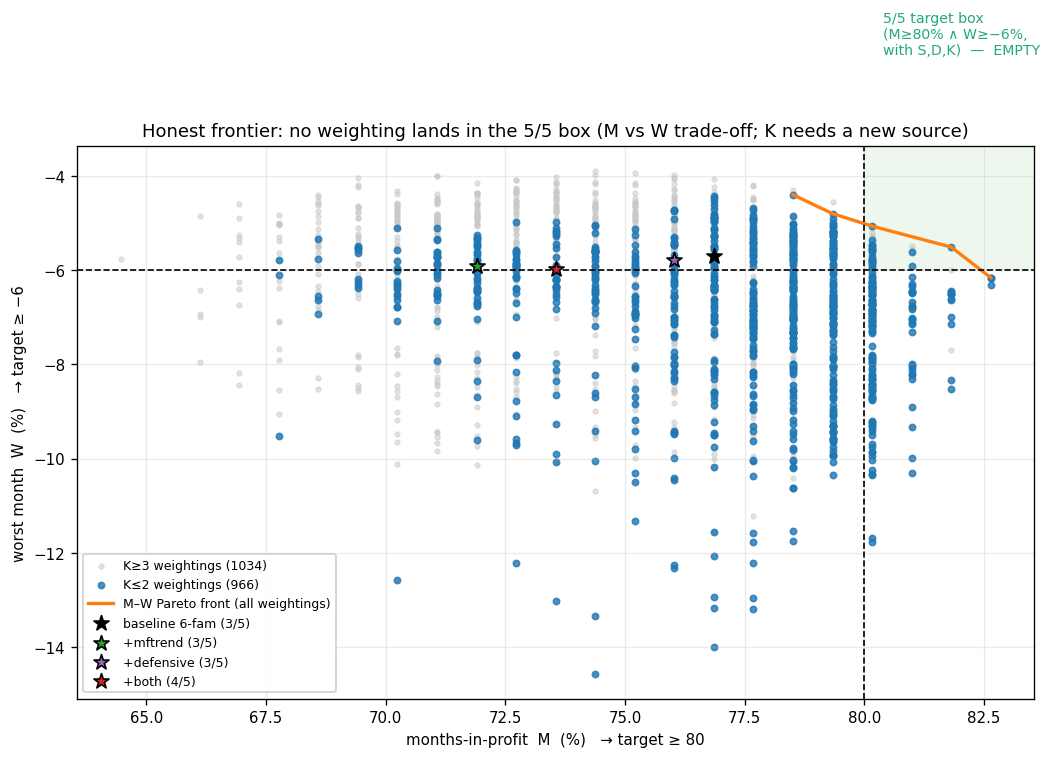
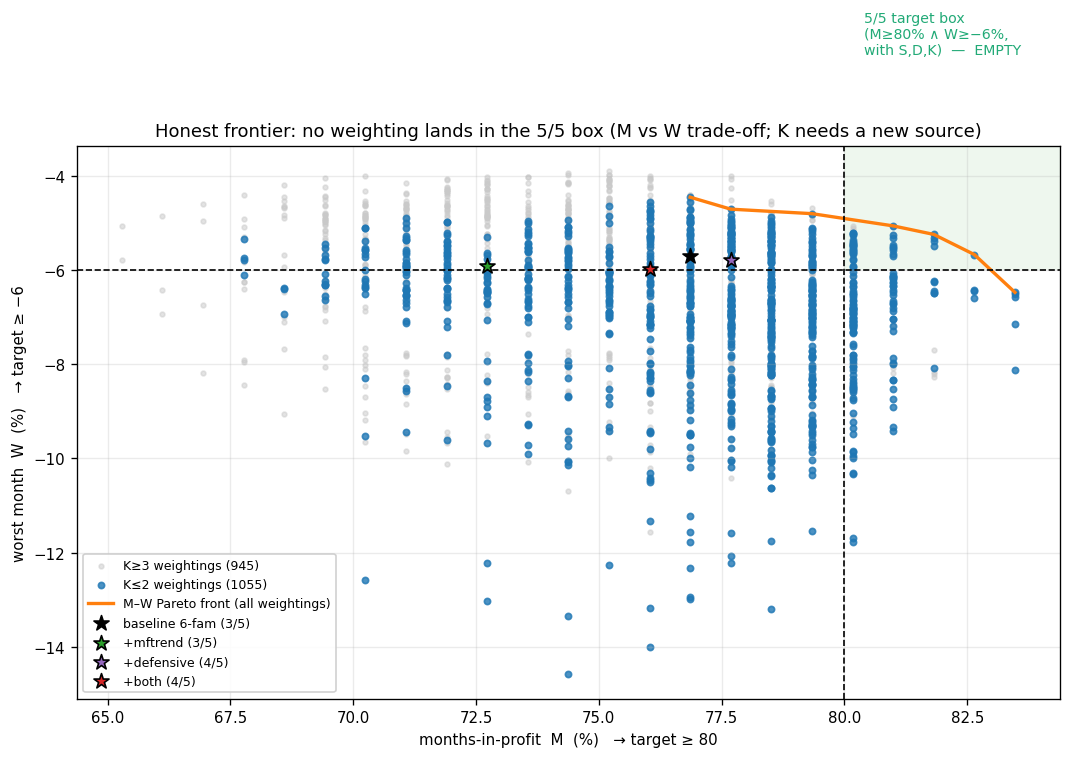
One vol-target sizing function instead of thirty-eight copies of it
Changing the ceiling last commit changed exactly one of the places that formula lives. There were 46,
across 36 files — I said eleven earlier, having read a truncated grep, and eleven was wrong.

Thirty-eight of them were character-identical: divide the vol target by trailing vol, clip, lag a bar,
zero the warm-up. That is not incidental repetition. The `.shift(1)` is the whole look-ahead discipline
of position sizing, and thirty-eight hand-written copies are thirty-eight chances to omit it in a way no
Sharpe would ever reveal. src/risk/sizing.vol_target_scale is now the only implementation.

The ceiling and the lookback stay ARGUMENTS at every call site rather than becoming a shared constant.
A sleeve's cap is part of a construction validated with it in place; re-pointing every sleeve at one
number would silently re-open every family's published series. Only the book-assembly layer passes
VOL_SCALE_CAP, because that is the only one measured.

Behaviour-preserving, and checked rather than asserted: every series the master book reads was rebuilt
and compared by hash — volprem, breakout, crisis and gmacro all byte-identical. The only artifacts that
moved are the two that read the book itself (carry's corr_to_book, the frontier sweep), which moved
because the book moved last commit.

Four sites remain on their own literal and should: they size per ASSET inside a family, lag the position
[…]

diff --git a/src/risk/sizing.py b/src/risk/sizing.py
@@ -1,0 +1,33 @@
+"""Vol-target position sizing — the one implementation.
+
+This formula was written out thirty-seven times across the repo before it lived here, and the copies are
+not interchangeable trivia: the `.shift(1)` is what keeps the size computable at the bar rather than from
+the day's own volatility, and a single copy missing it is a look-ahead nobody would notice in a Sharpe.
+One implementation means that discipline is written once.
+
+The ceiling and the lookback stay ARGUMENTS, not shared constants. A sleeve's cap is part of a
+construction that was validated with it in place, and quietly re-pointing every sleeve at one number
+would re-open every family's published series. The book-assembly layer passes `VOL_SCALE_CAP` because
+that one was measured; everyone else passes what they were already using, visibly.
+"""
+from __future__ import annotations
+
+import numpy as np
+import pandas as pd
+
+
+def vol_target_scale(net: pd.Series, target: float, ppy: float,
+                     lookback: int = 60, cap: float = 3.0) -> pd.Series:
+    """Multiplier that puts `net` on `target` annualised vol, from trailing info only.
+
+    net      : a return series, already net of its own costs.
+    target   : annualised vol to size to (e.g. 0.15).
+    ppy      : that series' observations per year — 365 for crypto, ~252 for an exchange calendar.
+    lookback : bars of trailing vol to size off.
+    cap      : ceiling on the multiplier, so a quiet stretch cannot hand the leg unbounded leverage
+               just before a shock.
+
+    Lagged one bar and zero over the warm-up: before there is enough history to size a position there is
+    no position.
+    """
+    return (target / (net.rolling(lookback).std() * np.sqrt(ppy))).clip(upper=cap).shift(1).fillna(0.0)

diff --git a/scripts/volprem/run_vol_premium_book.py b/scripts/volprem/run_vol_premium_book.py
@@ -43,6 +43,7 @@ from src.metrics import summarise  # noqa: E402
 from src.risk.vol_regime import own_curve_gate, short_vol_gate  # noqa: E402
 from src.sleeves import vol_premium as vp  # noqa: E402
 from src.sleeves.vol_premium import realized_vol  # noqa: E402
+from src.risk.sizing import vol_target_scale  # noqa: E402
 
 TVOL, PPY_BOOK = VOL_TARGET_ANNUAL, 252
 
@@ -73,7 +74,7 @@ UNIVERSE = [
 
 
 def vt(net, ppy):
-    scale = (TVOL / (net.rolling(60).std() * np.sqrt(ppy))).clip(upper=3.0).shift(1).fillna(0.0)
+    scale = vol_target_scale(net, TVOL, ppy)
     return (net * scale).clip(lower=-0.999).dropna()
 
 
@@ -180,7 +181,7 @@ def gated_leg(src, sym, und, cls, ppy, gate: pd.Series | None, own_curve: bool =
     if own_curve:
         both = both * own_curve_gate(iv, px.index)
     net = vp.short_vol_book(px, iv, ppy=ppy, gate=both, **base)["net"]
-    scale = (TVOL / (ungated.rolling(60).std() * np.sqrt(ppy))).clip(upper=3.0).shift(1).fillna(0.0)
+    scale = vol_target_scale(ungated, TVOL, ppy)
     return (net * scale.reindex(net.index)).clip(lower=-0.999).dropna()
 
 
@@ -197,7 +198,7 @@ def gated_book(rets_ungated: dict, gate: pd.Series, own_curve: bool = True) -> p
             gat[sym] = gated_leg(src, sym, und, cls, ppy, gate, own_curve=own_curve)
     raw_u = pd.DataFrame(rets_ungated).sort_index().mean(axis=1, skipna=True).dropna()
     raw_g = pd.DataFrame(gat).sort_index().mean(axis=1, skipna=True).dropna()
-    scale = (TVOL / (raw_u.rolling(60).std() * np.sqrt(PPY_BOOK))).clip(upper=3.0).shift(1).fillna(0.0)
+    scale = vol_target_scale(raw_u, TVOL, PPY_BOOK)
     return (raw_g * scale.reindex(raw_g.index)).clip(lower=-0.999).dropna()
 
 

diff --git a/scripts/volprem/run_gate_coverage.py b/scripts/volprem/run_gate_coverage.py
@@ -48,6 +48,7 @@ from src.config import LAB_DIR, OOS_START, SEED  # noqa: E402
 from src.metrics import summarise  # noqa: E402
 from src.risk.vol_regime import short_vol_gate  # noqa: E402
 from src.sleeves import vol_premium as vp  # noqa: E402
+from src.risk.sizing import vol_target_scale  # noqa: E402
 
 from scripts.volprem.run_vol_premium_book import (COST_BY_CLASS, PPY_BOOK, TVOL, UNIVERSE,  # noqa: E402
                                    implied, naive_dt, underlying_bars)
@@ -74,7 +75,7 @@ def leg(src, sym, und, cls, ppy, gate=None, extra_lag=0, timed=False):
     ungated = vp.short_vol_book(px, iv, ppy=ppy, **base | {"timed": False})["net"]
     g = None if gate is None else gate.reindex(px.index).shift(extra_lag)
     net = vp.short_vol_book(px, iv, ppy=ppy, gate=g, **base)["net"]
-    scale = (TVOL / (ungated.rolling(60).std() * np.sqrt(ppy))).clip(upper=3.0).shift(1).fillna(0.0)
+    scale = vol_target_scale(ungated, TVOL, ppy)
     return (net * scale.reindex(net.index)).clip(lower=-0.999).dropna()
 
 
@@ -91,7 +92,7 @@ def book_of(rets: dict, reference: dict) -> pd.Series:
     same re-entry artifact bites at book level as at sleeve level."""
     raw = pd.DataFrame(rets).sort_index().mean(axis=1, skipna=True).dropna()
     ref = pd.DataFrame(reference).sort_index().mean(axis=1, skipna=True).dropna()
-    scale = (TVOL / (ref.rolling(60).std() * np.sqrt(PPY_BOOK))).clip(upper=3.0).shift(1).fillna(0.0)
+    scale = vol_target_scale(ref, TVOL, PPY_BOOK)
     return (raw * scale.reindex(raw.index)).clip(lower=-0.999).dropna()
 
 

diff --git a/scripts/meanrev/run_mr_universe.py b/scripts/meanrev/run_mr_universe.py
@@ -17,6 +17,7 @@ from src.data.binance_bulk import load_klines  # noqa: E402
 from src.data.equity import load_equity_daily  # noqa: E402
 from src.metrics import summarise  # noqa: E402
 from src.sleeves.cross_sectional import xs_returns  # noqa: E402
+from src.risk.sizing import vol_target_scale  # noqa: E402
 from scripts.meanrev.run_mr_proper import coint, pairs_daily, wf_select  # noqa: E402
 
 SEED = 7
@@ -54,13 +55,13 @@ def reversal(panel, ppy, cost_bps):
     def daily(lb):
         g, t = xs_returns(panel, -panel.pct_change(lb), top_frac=0.3)
         net = g - t * cost_bps / 1e4
-        sc = (0.15 / (net.rolling(60).std() * np.sqrt(ppy))).clip(upper=3.0).shift(1).fillna(0.0)
+        sc = vol_target_scale(net, 0.15, ppy)
         return (net * sc).dropna()
     wf = summarise(wf_select({lb: daily(lb) for lb in (1, 2, 3, 5)}), ppy)
     g, t = xs_returns(panel, pd.DataFrame(rng.standard_normal(panel.shape),
                                           index=panel.index, columns=panel.columns), 0.3)
     pn = g - t * cost_bps / 1e4
-    plac = (pn * (0.15 / (pn.rolling(60).std() * np.sqrt(ppy))).clip(upper=3.0).shift(1).fillna(0.0)).dropna()
+    plac = (pn * vol_target_scale(pn, 0.15, ppy)).dropna()
     return wf, summarise(plac, ppy)["sharpe_ann"]
 
 

diff --git a/scripts/meanrev/run_mr_intraday.py b/scripts/meanrev/run_mr_intraday.py
@@ -8,7 +8,6 @@ reversal, net of costs. P&L is aggregated to daily and annualised at 252.
 """
 import warnings
 
-import numpy as np
 import pandas as pd
 
 warnings.filterwarnings("ignore", category=FutureWarning)      # deprecations only; correctness warnings (pandas SettingWithCopy, numpy) still surface
@@ -18,6 +17,7 @@ from src.backtest.engine import backtest, vol_target  # noqa: E402
 from src.data.twelvedata import load_bars  # noqa: E402
 from src.metrics import summarise  # noqa: E402
 from src.sleeves.cross_sectional import xs_returns  # noqa: E402
+from src.risk.sizing import vol_target_scale  # noqa: E402
 from scripts.meanrev.audit_mr import mr_revert  # noqa: E402
 from scripts.meanrev.run_mr_proper import wf_select  # noqa: E402
 
@@ -64,7 +64,7 @@ def main():
         def rev(lb):
             g, t = xs_returns(pan, -pan.pct_change(lb), top_frac=0.3)
             net = g - t * EC["commission_bps"] / 1e4
-            sc = (0.15 / (net.rolling(500).std() * np.sqrt(bar_ppy))).clip(upper=3.0).shift(1).fillna(0.0)
+            sc = vol_target_scale(net, 0.15, bar_ppy, lookback=500)
             return ((1 + net * sc).resample("D").prod() - 1).dropna()
 
         wf = summarise(wf_select({lb: rev(lb) for lb in (2, 4, 8, 16)}), 252)

diff --git a/scripts/run_book.py b/scripts/run_book.py
@@ -40,6 +40,7 @@ from src.pipeline import signal_events  # noqa: E402
 from src.sleeves import breakout, carry, mean_reversion, momentum  # noqa: E402
 from src.sleeves.sector_pairs import SECTOR_ETFS  # noqa: E402
 from src.validation.monte_carlo import bootstrap_sharpe  # noqa: E402
+from src.risk.sizing import vol_target_scale  # noqa: E402
 
 SEED, CAP, TVOL = SEED, CAPITAL_USD, VOL_TARGET_ANNUAL
 # §6 acceptance criteria, fixed before any candidate is evaluated and applied in this order: a sleeve
@@ -165,7 +166,7 @@ def run_xs(rows, panel, sid, kind, ppy, comm_bps):
                                              index=panel.index, columns=panel.columns))]:
         gross, turn = xs_returns(panel, sig, top_frac=0.3)
         net = gross - turn * comm_bps / 1e4
-        scale = (TVOL / (net.rolling(60).std() * np.sqrt(ppy))).clip(upper=3.0).shift(1).fillna(0.0)
+        scale = vol_target_scale(net, TVOL, ppy)
         netv = (net * scale).dropna()
         p5 = bootstrap_sharpe(netv, ppy, 500, SEED).get("sharpe_p5", np.nan) if label == "real" else np.nan
         res[label] = (summarise(netv, ppy), p5, netv, float(turn.sum()))

diff --git a/scripts/breakout/run_bo_xs_costs.py b/scripts/breakout/run_bo_xs_costs.py
@@ -38,6 +38,7 @@ from src.backtest.costs import panel_impact_cost  # noqa: E402
 from src.config import (BINANCE_FUT_TAKER_BPS, BINANCE_SPOT_TAKER_BPS, BREAKOUT_DIR,  # noqa: E402
                         CRYPTO_HALF_SPREAD_BPS, IMPACT_K, OOS_START, VOL_TARGET_ANNUAL)
 from src.sleeves.cross_sectional import breakout_signal  # noqa: E402
+from src.risk.sizing import vol_target_scale  # noqa: E402
 from scripts.breakout.run_bo_deep_history import full_metrics, show  # noqa: E402
 from scripts.breakout.run_bo_xs_big import NONCRYPTO, symbols_with_tf  # noqa: E402
 from scripts.breakout.run_bo_xs_tf import BPD, PPY  # noqa: E402
@@ -116,8 +117,7 @@ def run(C, Q, F, sig, tf, *, impact: bool, funding: bool, venue: str = "perp") -
            if impact else pd.Series(0.0, index=w.index))
 
     net_bar = gross - fee - imp + carry
-    scale = (VOL_TARGET_ANNUAL / (net_bar.rolling(60).std() * np.sqrt(PPY[tf]))).clip(upper=3.0)
-    net_bar = net_bar * scale.shift(1).fillna(0.0)
+    net_bar = net_bar * vol_target_scale(net_bar, VOL_TARGET_ANNUAL, PPY[tf])
     return ((1 + net_bar).resample("D").prod() - 1).dropna()
 
 

diff --git a/scripts/meanrev/run_mr_proper.py b/scripts/meanrev/run_mr_proper.py
@@ -19,6 +19,7 @@ from src.data.binance_bulk import load_klines  # noqa: E402
 from src.data.equity import load_equity_daily  # noqa: E402
 from src.metrics import summarise  # noqa: E402
 from src.sleeves.cross_sectional import xs_returns  # noqa: E402
+from src.risk.sizing import vol_target_scale  # noqa: E402
 from scripts.meanrev.audit_mr2 import pos_from_z  # noqa: E402
 
 PANEL = ["AAPL", "MSFT", "NVDA", "JPM", "AMZN", "GOOGL", "META", "JNJ", "XOM", "WMT",
@@ -41,7 +42,7 @@ def wf_select(daily_by_param, n_folds=5):
 
 
 def _vt(net, ppy):
-    return ((0.15 / (net.rolling(60).std() * np.sqrt(ppy))).clip(upper=3.0).shift(1).fillna(0.0) * net).dropna()
+    return (vol_target_scale(net, 0.15, ppy) * net).dropna()
 
 
 def reversal_daily(panel, lb, sign=-1.0, cost_bps=1.0):
@@ -88,7 +89,7 @@ def pairs_daily(y, x, lookback, entry, ppy, cost_bps=5.0, exit_=0.5):
 
 
 def _voltarget_pos(pos, ret, ppy):
-    return pos * (0.15 / (ret.rolling(60).std() * np.sqrt(ppy))).clip(upper=3.0).shift(1).fillna(0.0)
+    return pos * vol_target_scale(ret, 0.15, ppy)
 
 
 def main():

diff --git a/scripts/pairs/run_sector_pairs_ml.py b/scripts/pairs/run_sector_pairs_ml.py
@@ -19,6 +19,7 @@ from src.metrics import summarise  # noqa: E402
 from src.pipeline import model_factory  # noqa: E402
 from src.sleeves.sector_pairs import SECTOR_ETFS, _cointegration, _positions_from_z  # noqa: E402
 from src.validation.purged_cv import cv_oos_predictions  # noqa: E402
+from src.risk.sizing import vol_target_scale  # noqa: E402
 
 PPY, COST = 252, 2.0
 
@@ -32,7 +33,7 @@ def pair_daily_and_trades(y, x, lookback, entry, mkt_vol, exit_=0.5):
     sd = spread.rolling(lookback).std()
     z = (spread - spread.rolling(lookback).mean()) / (sd + 1e-12)
     pair_ret = ry - beta * rx
-    scale = (0.15 / (pair_ret.rolling(60).std() * np.sqrt(PPY))).clip(upper=3.0).shift(1).fillna(0.0)
+    scale = vol_target_scale(pair_ret, 0.15, PPY)
     executed = (pd.Series(_positions_from_z(z.to_numpy(), entry, exit_), index=y.index) * scale).shift(2).fillna(0.0)
     daily = executed * pair_ret - executed.diff().abs().fillna(0.0) * 2 * COST / 1e4
     trades, inpos, start = [], False, 0

diff --git a/scripts/meanrev/audit_mr2.py b/scripts/meanrev/audit_mr2.py
@@ -21,13 +21,14 @@ from src.data.binance_bulk import load_klines  # noqa: E402
 from src.data.equity import load_equity_daily  # noqa: E402
 from src.metrics import summarise  # noqa: E402
 from src.sleeves.cross_sectional import xs_returns  # noqa: E402
+from src.risk.sizing import vol_target_scale  # noqa: E402
 
 PANEL = ["AAPL", "MSFT", "NVDA", "JPM", "AMZN", "GOOGL", "META", "JNJ", "XOM", "WMT",
          "V", "PG", "HD", "BAC", "KO", "DIS", "CSCO", "INTC", "CVX", "PFE"]
 
 
 def _voltarget(net, ppy, tgt=0.15):
-    scale = (tgt / (net.rolling(60).std() * np.sqrt(ppy))).clip(upper=3.0).shift(1).fillna(0.0)
+    scale = vol_target_scale(net, tgt, ppy)
     return (net * scale).dropna()
 
 
@@ -63,7 +64,7 @@ def pairs_mr(y, x, lookback, entry, exit_, cost_bps, ppy):
 
 
 def _voltarget_pos(pos, ret, ppy, tgt=0.15):
-    scale = (tgt / (ret.rolling(60).std() * np.sqrt(ppy))).clip(upper=3.0).shift(1).fillna(0.0)
+    scale = vol_target_scale(ret, tgt, ppy)
     return pos * scale
 
 

diff --git a/scripts/breakout/run_bo_xs_tf.py b/scripts/breakout/run_bo_xs_tf.py
@@ -19,6 +19,7 @@ from src.config import IMPACT_K, OOS_START, VOL_TARGET_ANNUAL  # noqa: E402
 from src.metrics import summarise  # noqa: E402
 from src.sleeves.cross_sectional import breakout_signal  # noqa: E402
 from src.validation.monte_carlo import bootstrap_sharpe  # noqa: E402
+from src.risk.sizing import vol_target_scale  # noqa: E402
 
 TVOL, COST = VOL_TARGET_ANNUAL, 6.0
 BPD = {"1d": 1, "4h": 6, "1h": 24, "15m": 96}          # bars per day
@@ -86,7 +87,7 @@ def xs_daily(pnl, sig, ppy_bar, rebal, adv=None, funding=None):
                                               adv.reindex_like(w).ffill(), bo.CAP, IMPACT_K)
     if funding is not None:
         net_bar = net_bar - (w * funding.reindex_like(w).fillna(0.0)).sum(axis=1)
-    scale = (TVOL / (net_bar.rolling(60).std() * np.sqrt(ppy_bar))).clip(upper=3.0).shift(1).fillna(0.0)
+    scale = vol_target_scale(net_bar, TVOL, ppy_bar)
     net_bar = net_bar * scale
     return ((1 + net_bar).resample("D").prod() - 1).dropna()
 

diff --git a/src/sleeves/sector_pairs.py b/src/sleeves/sector_pairs.py
@@ -15,6 +15,7 @@ import itertools
 import numpy as np
 import pandas as pd
 from statsmodels.tsa.stattools import adfuller
+from src.risk.sizing import vol_target_scale
 
 # The ten SPDR select-sector ETFs — liquid, tight spreads, long history.
 SECTOR_ETFS = ["XLE", "XLF", "XLK", "XLV", "XLI", "XLP", "XLY", "XLU", "XLB", "XLRE"]
@@ -74,7 +75,7 @@ def _spread_return(y: pd.Series, x: pd.Series, lookback: int, entry: float,
     z = (spread - spread.rolling(lookback).mean()) / (spread.rolling(lookback).std() + 1e-12)
     pos = pd.Series(_positions_from_z(z.to_numpy(), entry, exit_), index=y.index)
     pair_ret = ry - beta * rx
-    scale = (TVOL / (pair_ret.rolling(60).std() * np.sqrt(ppy))).clip(upper=3.0).shift(1).fillna(0.0)
+    scale = vol_target_scale(pair_ret, TVOL, ppy)
     held = (pos * scale).shift(2).fillna(0.0)                                   # t+2 execution
     return (held * pair_ret - held.diff().abs().fillna(0.0) * 2 * cost_bps / 1e4).dropna()
 
